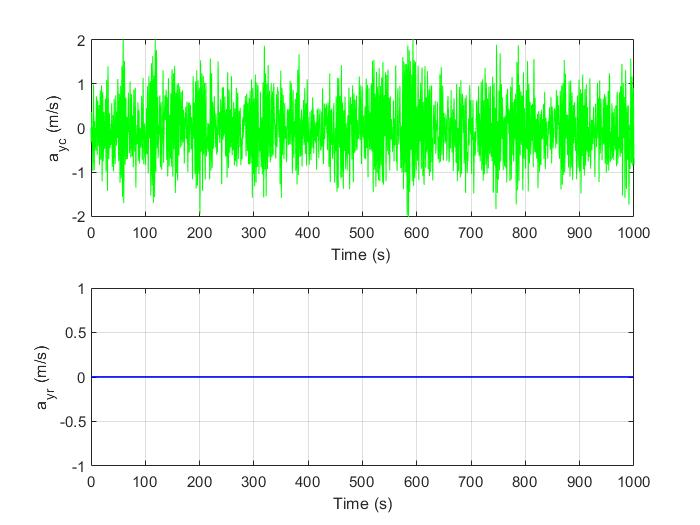
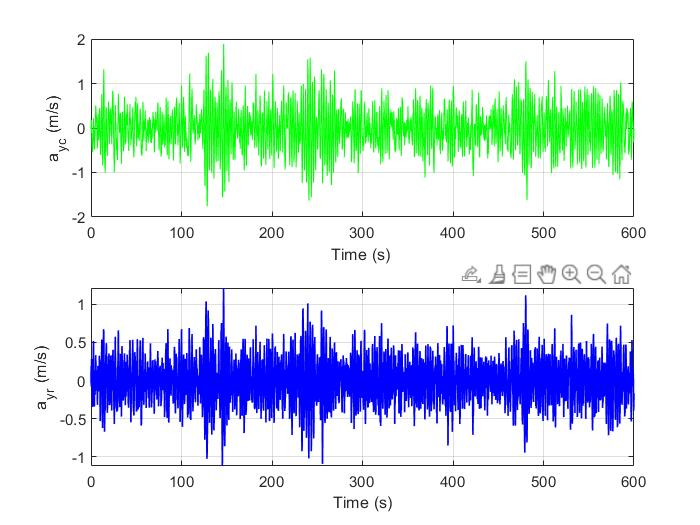
yoyo

diff --git a/Ch_3_spectral_analysis.m b/Ch_3_spectral_analysis.m
@@ -6,14 +6,14 @@ temp = bode(A2,B,C(1,:),D(1,:),4,w)+ bode(A2,B,C(1,:),D(1,:),5,w); Sbeta_c  = te
 temp = bode(A2,B,C(2,:),D(2,:),4,w)+ bode(A2,B,C(2,:),D(2,:),5,w); Sphi_c   = temp.*temp;
 temp = bode(A2,B,C(3,:),D(3,:),4,w)+ bode(A2,B,C(3,:),D(3,:),5,w); Sbp_c    = temp.*temp;
 temp = bode(A2,B,C(4,:),D(4,:),4,w)+ bode(A2,B,C(4,:),D(4,:),5,w); Srb_c    = temp.*temp;
-temp = bode(A2,B,V*(A2(1,:)+[0 0 0 2*V/b 0    0    0    0    0  0]),V*B(1,:),4,w)+ bode(A2,B,V*(A2(1,:)+[0 0 0 2*V/b 0    0    0    0    0  0]),V*B(1,:),5,w); Say_c = temp.*temp;
+temp = bode(A2,B,C1(5,:),D(5,:),4,w)+ bode(A2,B,C1(5,:),D(5,:),5,w); Say_c = temp.*temp;
 
 Sxx  = [Sbeta_c Sphi_c Sbp_c Srb_c Say_c];
 
 %reduced model
-temp = bode(Ar,Br,Cr(1,:),Dr(1,:),4,w) + bode(Ar,Br,Cr(1,:),Dr(1,:),5,w); Sbeta_r  = temp.*temp;
-temp = bode(Ar,Br,Cr(2,:),Dr(2,:),4,w)+ bode(Ar,Br,Cr(2,:),Dr(2,:),5,w); Srb_r    = temp.*temp;
-temp = bode(Ar,Br,V*(Ar(1,:)+[0 2*V/b 0    0    0    0    0  0]),V*Br(1,:),4,w) + bode(Ar,Br,V*(Ar(1,:)+[0 2*V/b 0    0    0    0    0  0]),V*Br(1,:),5,w);Say_r = temp.*temp;
+temp = bode(Ar,Br,Cr1(1,:),Dr(1,:),4,w) + bode(Ar,Br,Cr1(1,:),Dr(1,:),5,w); Sbeta_r  = temp.*temp;
+temp = bode(Ar,Br,Cr1(2,:),Dr(2,:),4,w)+ bode(Ar,Br,Cr1(2,:),Dr(2,:),5,w); Srb_r    = temp.*temp;
+temp = bode(Ar,Br,Cr1(3,:),D(3,:),4,w) + bode(Ar,Br,Cr1(3,:),D(3,:),5,w);Say_r = temp.*temp;
 
 Sxx_r = [Sbeta_r Srb_r Say_r];
 u = [nn' nn' nn'  w_g'  v_g'];
@@ -78,11 +78,6 @@ pay_r = pwelch(a_y_r,omega,[],N,fs);
 pay_r = pay_r/2;
 
  %PSD ESTIMATE
-% pbeta_psd_c  = ( pBETA_c.*conj(pBETA_c));
-% pphi_psd_c  = (  pPhi_c.*conj(pPhi_c));
-% ppbv_psd_c     = (    pPbv_c.*conj(pPbv_c));
-% prbv_psd_c= (    pRbv_c.*conj(pRbv_c));
-% pay_psd_c = (    pay_c.*conj(pay_c));
 figure(9)
 subplot(2,1,1); loglog(omega,beta_psd_c (1:N/2),'-',omega,pBETA_c(2:N/2+1),w,Sxx(:,1),'k') 
 axis(10.^[-1 2 -12 -2]); xlabel('omega [rad/s]'); ylabel('S_\beta_\beta_c[rad^2/rad/s]');
@@ -115,14 +110,16 @@ legend('Experimental Periodogram','Smoothed Periodogram','Analytical PSD')
 grid on
 
 figure(12)
+subplot(2,1,1)
 loglog(omega,ay_psd_c(1:N/2),'-',omega,pay_c(2:N/2+1),w,Sxx(:,5),'k');
 axis(10.^[-1 2 -10 5]); xlabel('omega [rad/s]'); ylabel('S_a_a [(m/s^2)^2/rad/s]')
 legend('Experimental Periodogram','Smoothed Periodogram','Analytical PSD')
 grid on
-% subplot(2,1,2); 
-% loglog(w,Sxx_r(:,3),'k',omega,ay_psd_r(1:N/2),'-',omega,pay_r(2:N/2+1));
-% axis(10.^[-1 2 -10 5]); xlabel('omega [rad/s]'); ylabel('S_a_a [(m/s^2)^2/rad/s]')
-% legend('Analytical PSD', 'Experimental Periodogram','Smoothed Periodogram')
+subplot(2,1,2); 
+loglog(omega,ay_psd_r(1:N/2),'-',omega,pay_r(2:N/2+1),w,Sxx_r(:,3),'k');
+axis(10.^[-1 2 -10 5]); xlabel('omega [rad/s]'); ylabel('S_a_a [(m/s^2)^2/rad/s]')
+legend('Experimental Periodogram','Smoothed Periodogram','Analytical PSD')
+grid on
 figure(13) % for beta comptete model
 bode(A2,B,C(1,:),D(1,:),4,w)
 hold on

diff --git a/Ch_1_Stability_analysis.m b/Ch_1_Stability_analysis.m
@@ -18,17 +18,19 @@
 % effective one-dimensional power spectral densities for u_g, alpha_g and
 % beta_g.
 % 
-% Data for Cessna Citation Ce-500, landing (1)
+% Deig
 
 % AIRCRAFT- AND FLIGHT CONDITION 'cruise'.
 V   = 121.3;
+W = 53361;
+rho = 0.4587;
 S   = 24.2;
 b   = 13.36;
 mub = 32;
 KX2 = 0.013;
 KZ2 = 0.037;
 KXZ = 0.002;
-CL  = 1.1360;
+CL  = W/(0.5*rho*V^2*S);
 
 % TURBULENCE PARAMETERS APPROXIMATED POWER SPECTRAL DENSITIES
 Lg        = 150; 
@@ -46,7 +48,7 @@ tau4 = 0.0600;     tau5 = 0.3294;     tau6 = 0.2243;
 
 % AIRCRAFT ASYMMETRIC AERODYNAMIC DERIVATIVES 
 CYb  =-1.3250;     Clb  =-0.1070;     Cnb  = 0.1835;
-CYp  =-0.1320;     Clp  =-0.3684;     Cnp  =-0.0035;
+CYp  =-0.1320;     Clp  =-0.3684;     Cnp  =0.0035;
 CYr  = 0.4300;     Clr  = 0.1750;     Cnr  =-0.1930;
 CYda = 0.0000;     Clda =-0.2292;     Cnda = 0.0071;
 CYdr = 0.3037;     Cldr = 0.0446;     Cndr =-0.1261;
@@ -129,17 +131,17 @@ figure(1)
 pzmap(sys_uncontrolled)
 grid on
 
-Ar = [0   -2*V/b 0    0    0    0    0  0;
-     nb    nr nug  0    nag  0    nbg  0;
-     0     0  0    1    0    0    0    0;
-     0     0  aug1 aug2 0    0    0    0;
-     0     0  0    0    0    1    0    0;
-     0     0  0    0    aag1 aag2 0    0;
-     0     0  0    0    0    0    0    1;
-     0     0  0    0    0    0    abg1 abg2];
+Ar = [yb     yr 0    0    0    0    ybg  0;
+     nb     nr nug  0    nag  0    nbg  0;
+     0       0  0    1    0    0    0    0;
+     0       0  aug1 aug2 0    0    0    0;
+     0       0  0    0    0    1    0    0;
+     0       0  0    0    aag1 aag2 0    0;
+     0       0  0    0    0    0    0    1;
+     0       0  0    0    0    0    abg1 abg2];
 
-Br = [0  0   0    0    0;
-     0   0   0    0    0;
+Br = [0   ydr 0    0    0;
+     nda ndr 0    0    0;
      0   0   bug1 0    0;
      0   0   bug2 0    0;
      0   0   0    bag1 0;

diff --git a/Ch_2_time_response.m b/Ch_2_time_response.m
@@ -1,4 +1,4 @@
-dt = 0.005; T  = 1000; 
+dt = 0.005; T  = 600; 
 t = [0:dt:T]; N = length(t);
 nn = zeros(1,N);
 
@@ -26,6 +26,12 @@ D = [0 0 0 0 0;
      0 0 0 0 0;
      0 0 0 0 0];
 
+Cr1= [1 0 0 0 0 0 0 0;
+      0 1 0 0 0 0 0 0;
+      V*yb  V*(yr+(2*V/b)) 0 0 0 0 V*ybg 0];
+Dr1 = [0 0 0 0 0;
+     0 0 0 0 0;
+     0 0 0 0 0];
 % RESPONSE to u_g
 y1 = lsim(A2,B,C1,D,u1,t);
 % RESPONSE to v_g
@@ -37,13 +43,13 @@ yt = y1+y2+y3;
 %xt = x1+x2+x3;
 a_y =  yt(:,5);
  
-y1r = lsim(Ar,Br,Cr,Dr,u1,t);
+y1r = lsim(Ar,Br,Cr1,Dr1,u1,t);
 % RESPONSE to v_g
-y2r = lsim(Ar,Br,Cr,Dr,u2,t);
+y2r = lsim(Ar,Br,Cr1,Dr1,u2,t);
 % RESPONSE to w_g
-y3r = lsim(Ar,Br,Cr,Dr,u3,t);
+y3r = lsim(Ar,Br,Cr1,Dr1,u3,t);
 ytr = y1r+y2r+y3r;
-a_y_r = V*(Ar(1,:)*ytr' +Br(1,:)*u1' + Br(1,:)*u2' + Br(1,:)*u3'+ (2*V/b)*ytr(:,2)');
+a_y_r = ytr(:,3);
 
 % PLOT RESULTS
 figure(4)
